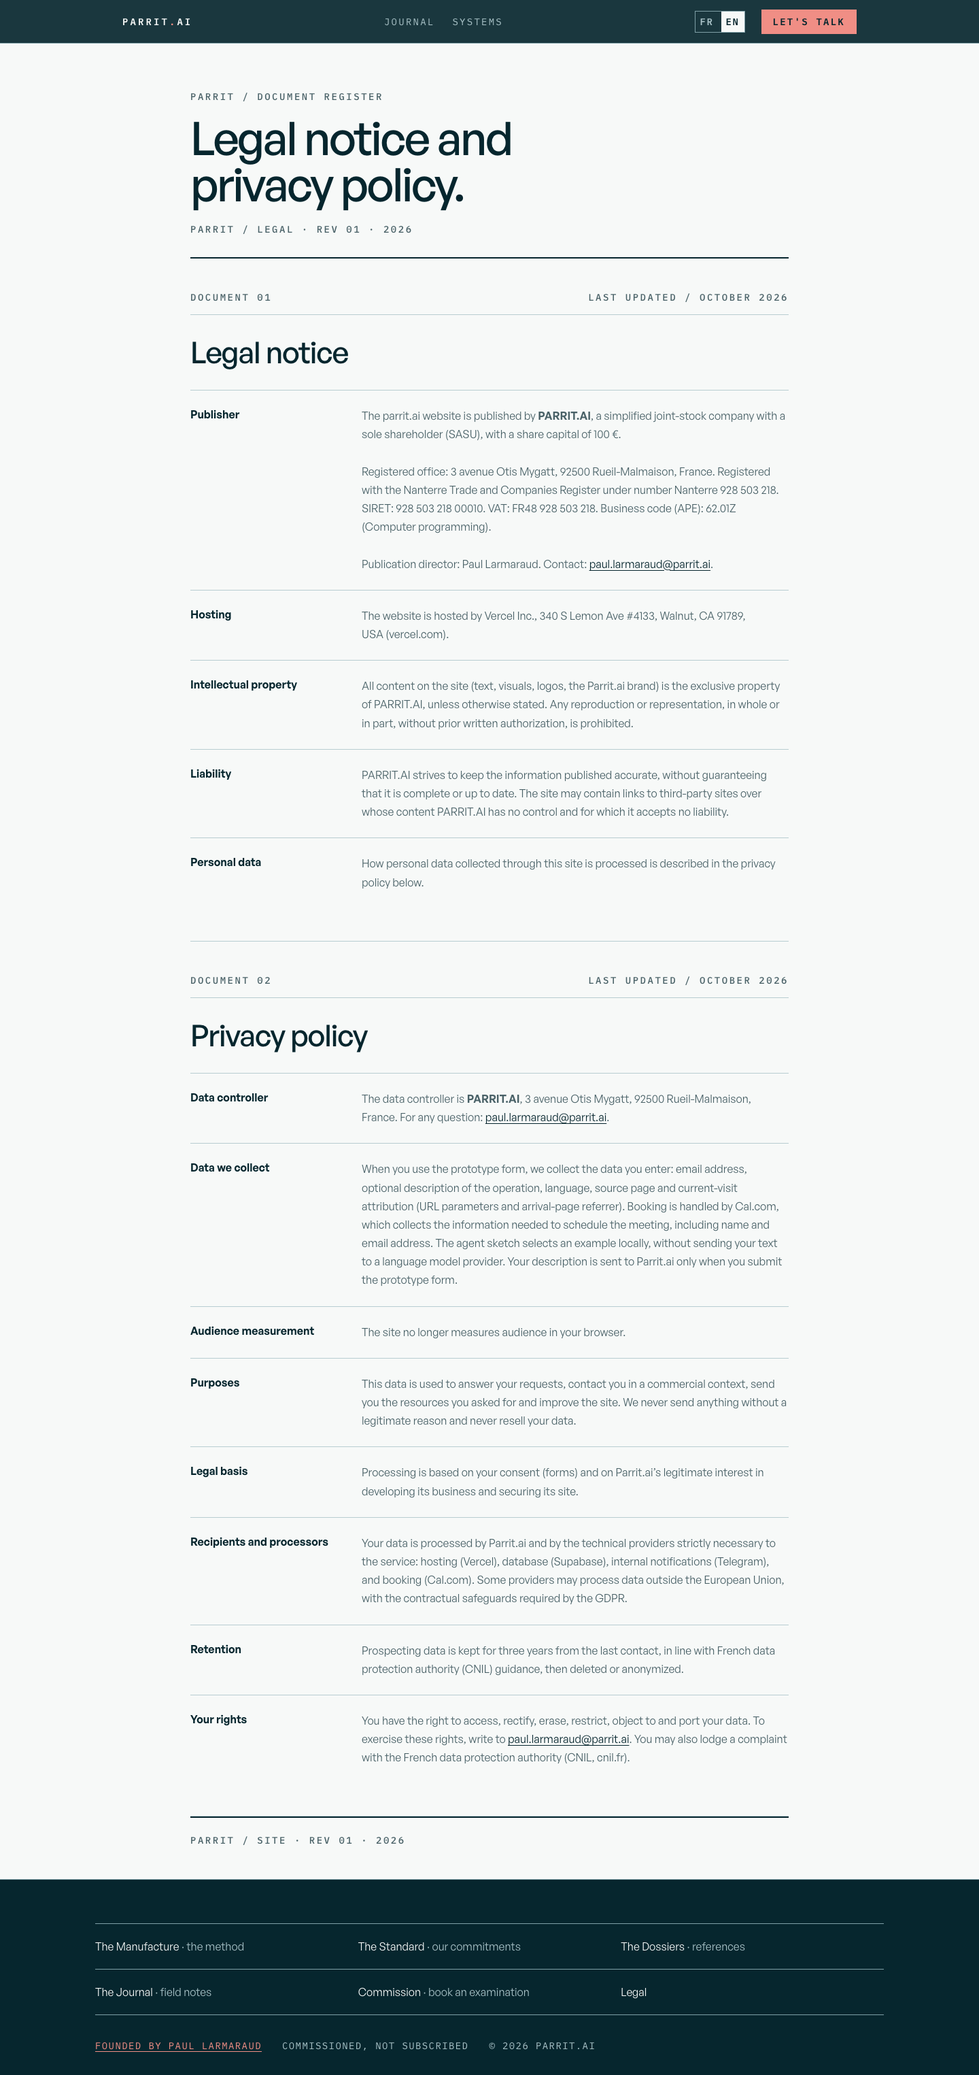
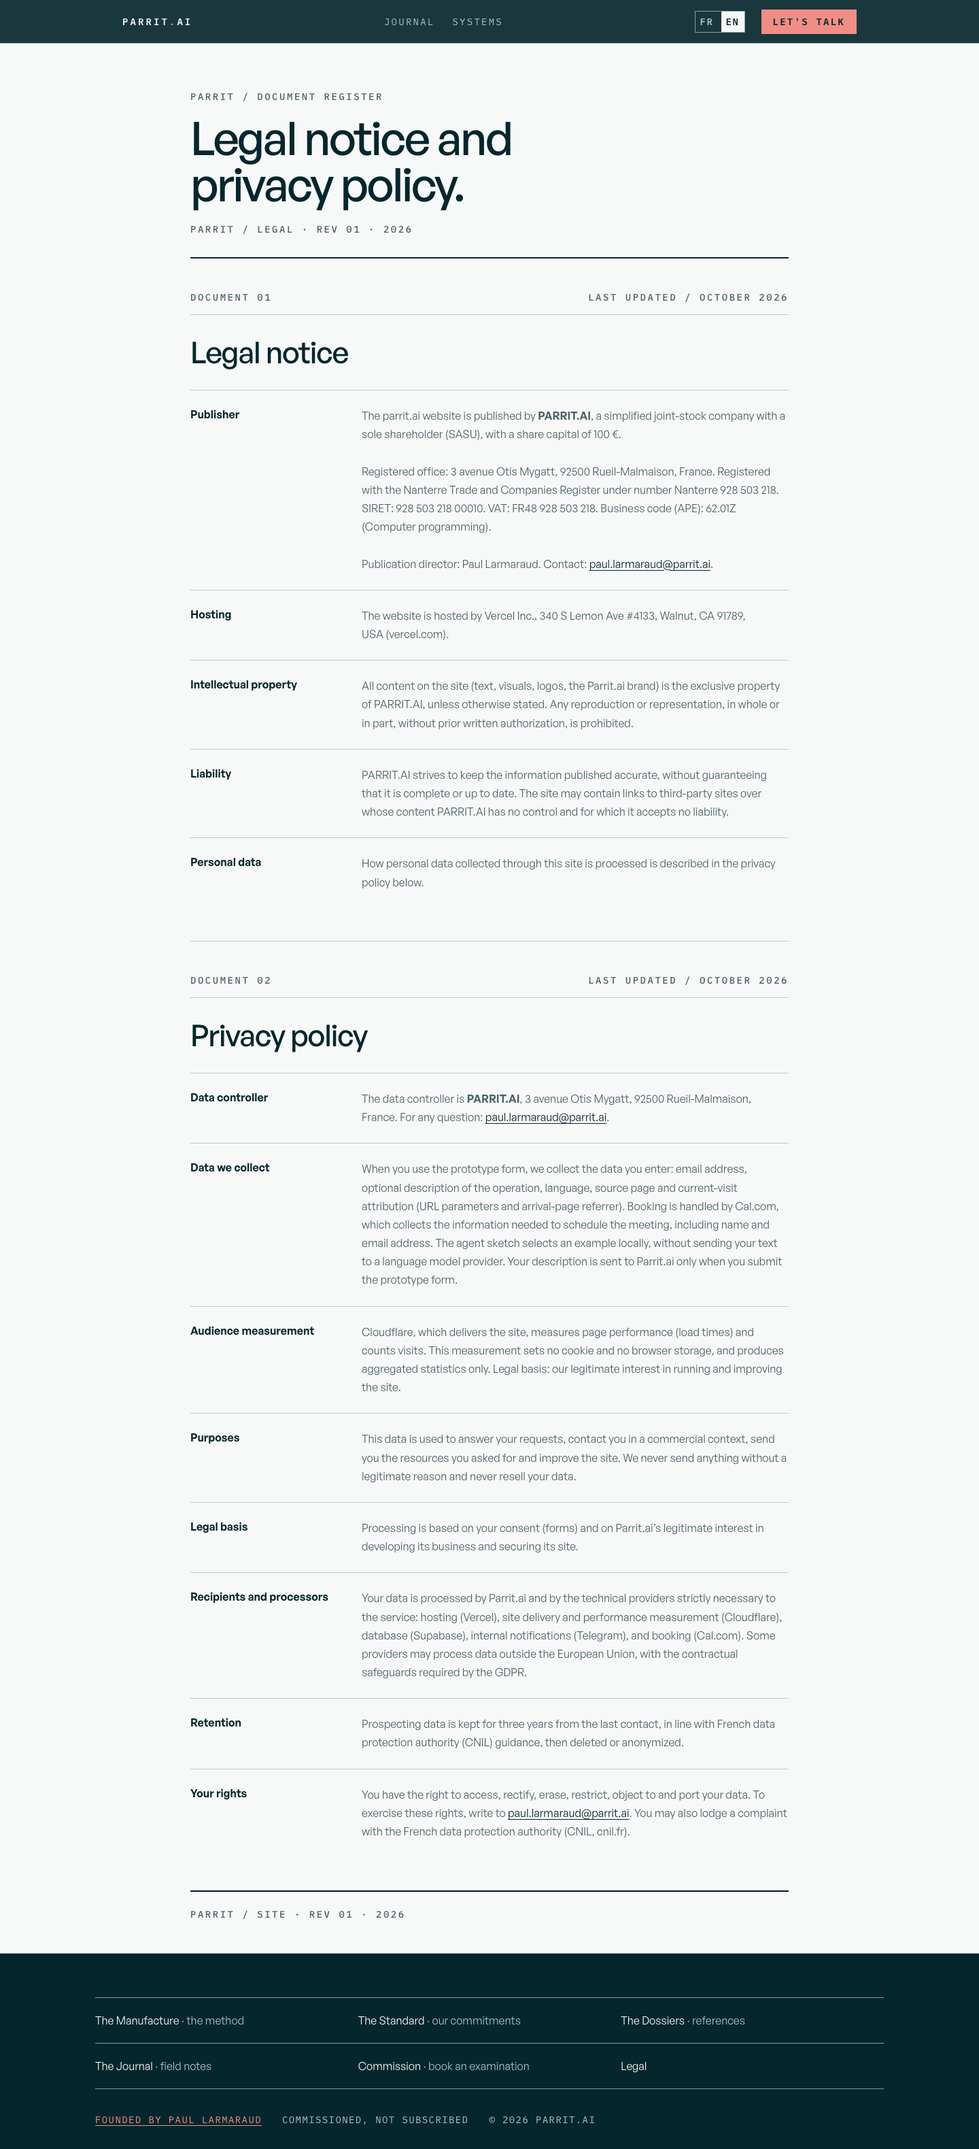
codex: implémente docs/CODEX-SPEC-2026-10-05-parrit-ai-legal-cloudflare-v1.md
Via pont headless codex-handoff.sh. Batterie verte.

diff --git a/src/app/(rev01)/legal/page.tsx b/src/app/(rev01)/legal/page.tsx
@@ -12,12 +12,12 @@ const DICT = {
   en: {
     metaTitle: "Legal notice and privacy policy", metaDescription: "Legal notice and privacy policy for Parrit.ai, including company information, hosting, data processing and GDPR rights.", kicker: "Parrit / Document register", title: "Legal notice and privacy policy.", updated: "Last updated / October 2026", doc1: "Document 01", legalTitle: "Legal notice", doc2: "Document 02", privacyTitle: "Privacy policy",
     legal: [["Publisher", <>The parrit.ai website is published by <strong>{COMPANY.name}</strong>, a simplified joint-stock company with a sole shareholder (SASU), with a share capital of {COMPANY.capital}.<br /><br />Registered office: {COMPANY.office}. Registered with the Nanterre Trade and Companies Register under number {COMPANY.registration}. SIRET: {COMPANY.siret}. VAT: {COMPANY.vat}. Business code (APE): 62.01Z (Computer programming).<br /><br />Publication director: {COMPANY.publicationDirector}. Contact: <a href={`mailto:${COMPANY.email}`}>{COMPANY.email}</a>.</>], ["Hosting", <>The website is hosted by Vercel Inc., 340 S Lemon Ave {"#"}4133, Walnut, CA 91789, USA (vercel.com).</>], ["Intellectual property", <>All content on the site (text, visuals, logos, the Parrit.ai brand) is the exclusive property of {COMPANY.name}, unless otherwise stated. Any reproduction or representation, in whole or in part, without prior written authorization, is prohibited.</>], ["Liability", <>{COMPANY.name} strives to keep the information published accurate, without guaranteeing that it is complete or up to date. The site may contain links to third-party sites over whose content {COMPANY.name} has no control and for which it accepts no liability.</>], ["Personal data", <>How personal data collected through this site is processed is described in the privacy policy below.</>]],
-    privacy: [["Data controller", <>The data controller is <strong>{COMPANY.name}</strong>, {COMPANY.office}. For any question: <a href={`mailto:${COMPANY.email}`}>{COMPANY.email}</a>.</>], ["Data we collect", <>When you use the prototype form, we collect the data you enter: email address, optional description of the operation, language, source page and current-visit attribution (URL parameters and arrival-page referrer). Booking is handled by Cal.com, which collects the information needed to schedule the meeting, including name and email address. The agent sketch selects an example locally, without sending your text to a language model provider. Your description is sent to Parrit.ai only when you submit the prototype form.</>], ["Audience measurement", <>The site no longer measures audience in your browser.</>], ["Purposes", <>This data is used to answer your requests, contact you in a commercial context, send you the resources you asked for and improve the site. We never send anything without a legitimate reason and never resell your data.</>], ["Legal basis", <>Processing is based on your consent (forms) and on Parrit.ai’s legitimate interest in developing its business and securing its site.</>], ["Recipients and processors", <>Your data is processed by Parrit.ai and by the technical providers strictly necessary to the service: hosting (Vercel), database (Supabase), internal notifications (Telegram), and booking (Cal.com). Some providers may process data outside the European Union, with the contractual safeguards required by the GDPR.</>], ["Retention", <>Prospecting data is kept for three years from the last contact, in line with French data protection authority (CNIL) guidance, then deleted or anonymized.</>], ["Your rights", <>You have the right to access, rectify, erase, restrict, object to and port your data. To exercise these rights, write to <a href={`mailto:${COMPANY.email}`}>{COMPANY.email}</a>. You may also lodge a complaint with the French data protection authority (CNIL, cnil.fr).</>]],
+    privacy: [["Data controller", <>The data controller is <strong>{COMPANY.name}</strong>, {COMPANY.office}. For any question: <a href={`mailto:${COMPANY.email}`}>{COMPANY.email}</a>.</>], ["Data we collect", <>When you use the prototype form, we collect the data you enter: email address, optional description of the operation, language, source page and current-visit attribution (URL parameters and arrival-page referrer). Booking is handled by Cal.com, which collects the information needed to schedule the meeting, including name and email address. The agent sketch selects an example locally, without sending your text to a language model provider. Your description is sent to Parrit.ai only when you submit the prototype form.</>], ["Audience measurement", <>Cloudflare, which delivers the site, measures page performance (load times) and counts visits. This measurement sets no cookie and no browser storage, and produces aggregated statistics only. Legal basis: our legitimate interest in running and improving the site.</>], ["Purposes", <>This data is used to answer your requests, contact you in a commercial context, send you the resources you asked for and improve the site. We never send anything without a legitimate reason and never resell your data.</>], ["Legal basis", <>Processing is based on your consent (forms) and on Parrit.ai’s legitimate interest in developing its business and securing its site.</>], ["Recipients and processors", <>Your data is processed by Parrit.ai and by the technical providers strictly necessary to the service: hosting (Vercel), site delivery and performance measurement (Cloudflare), database (Supabase), internal notifications (Telegram), and booking (Cal.com). Some providers may process data outside the European Union, with the contractual safeguards required by the GDPR.</>], ["Retention", <>Prospecting data is kept for three years from the last contact, in line with French data protection authority (CNIL) guidance, then deleted or anonymized.</>], ["Your rights", <>You have the right to access, rectify, erase, restrict, object to and port your data. To exercise these rights, write to <a href={`mailto:${COMPANY.email}`}>{COMPANY.email}</a>. You may also lodge a complaint with the French data protection authority (CNIL, cnil.fr).</>]],
   },
   fr: {
     metaTitle: "Mentions légales et politique de confidentialité", metaDescription: "Mentions légales et politique de confidentialité de Parrit.ai : société, hébergement, traitement des données et droits RGPD.", kicker: "Parrit / Registre documentaire", title: "Mentions légales et politique de confidentialité.", updated: "Dernière mise à jour / Octobre 2026", doc1: "Document 01", legalTitle: "Mentions légales", doc2: "Document 02", privacyTitle: "Politique de confidentialité",
     legal: [["Éditeur", <>Le site parrit.ai est édité par <strong>{COMPANY.name}</strong>, société par actions simplifiée unipersonnelle (SASU), au capital social de {COMPANY.capital}.<br /><br />Siège social : {COMPANY.office}. Immatriculée au Registre du commerce et des sociétés de Nanterre sous le numéro {COMPANY.registration}. SIRET : {COMPANY.siret}. TVA intracommunautaire : {COMPANY.vat}. Code APE : 62.01Z (Programmation informatique).<br /><br />Directeur de la publication : {COMPANY.publicationDirector}. Contact : <a href={`mailto:${COMPANY.email}`}>{COMPANY.email}</a>.</>], ["Hébergement", <>Le site est hébergé par Vercel Inc., 340 S Lemon Ave {"#"}4133, Walnut, CA 91789, États-Unis (vercel.com).</>], ["Propriété intellectuelle", <>L'ensemble des contenus du site (textes, visuels, logos et marque Parrit.ai) est la propriété exclusive de {COMPANY.name}, sauf mention contraire. Toute reproduction ou représentation, totale ou partielle, sans autorisation écrite préalable, est interdite.</>], ["Responsabilité", <>{COMPANY.name} s'efforce d'assurer l'exactitude des informations publiées, sans garantir leur exhaustivité ni leur actualité. Le site peut contenir des liens vers des sites tiers dont {COMPANY.name} ne contrôle pas le contenu et pour lesquels elle décline toute responsabilité.</>], ["Données personnelles", <>Le traitement des données personnelles collectées par l'intermédiaire de ce site est décrit dans la politique de confidentialité ci-dessous.</>]],
-    privacy: [["Responsable du traitement", <>Le responsable du traitement est <strong>{COMPANY.name}</strong>, {COMPANY.office}. Pour toute question : <a href={`mailto:${COMPANY.email}`}>{COMPANY.email}</a>.</>], ["Données collectées", <>Lorsque vous utilisez le formulaire prototype, nous collectons les données que vous saisissez : adresse e-mail, description facultative de l'opération, langue, page d'origine et attribution de la visite en cours (paramètres d'URL et référent de la page d'arrivée). La prise de rendez-vous est gérée par Cal.com, qui collecte les informations nécessaires à la planification du rendez-vous, dont le nom et l'adresse e-mail. L’esquisse d’agent choisit un exemple localement, sans transmettre votre texte à un fournisseur de modèle de langage. Votre description est envoyée à Parrit.ai uniquement lorsque vous soumettez le formulaire prototype.</>], ["Mesure d’audience", <>Le site ne mesure plus l’audience dans votre navigateur.</>], ["Finalités", <>Ces données servent à répondre à vos demandes, à vous contacter dans un contexte commercial, à vous transmettre les ressources demandées et à améliorer le site. Nous n'envoyons rien sans motif légitime et ne revendons jamais vos données.</>], ["Base légale", <>Les traitements reposent sur votre consentement (formulaires) et sur l'intérêt légitime de Parrit.ai à développer son activité et à sécuriser son site.</>], ["Destinataires et sous-traitants", <>Vos données sont traitées par Parrit.ai et par les prestataires techniques strictement nécessaires au service : hébergement (Vercel), base de données (Supabase), notifications internes (Telegram), et prise de rendez-vous (Cal.com). Certains prestataires peuvent traiter des données hors de l'Union européenne, avec les garanties contractuelles exigées par le RGPD.</>], ["Durée de conservation", <>Les données de prospection sont conservées pendant trois ans à compter du dernier contact, conformément aux recommandations de la CNIL, puis supprimées ou anonymisées.</>], ["Vos droits", <>Vous disposez des droits d'accès, de rectification, d'effacement, de limitation, d'opposition et de portabilité de vos données. Pour exercer ces droits, écrivez à <a href={`mailto:${COMPANY.email}`}>{COMPANY.email}</a>. Vous pouvez également adresser une réclamation à la Commission nationale de l'informatique et des libertés (CNIL, cnil.fr).</>]],
+    privacy: [["Responsable du traitement", <>Le responsable du traitement est <strong>{COMPANY.name}</strong>, {COMPANY.office}. Pour toute question : <a href={`mailto:${COMPANY.email}`}>{COMPANY.email}</a>.</>], ["Données collectées", <>Lorsque vous utilisez le formulaire prototype, nous collectons les données que vous saisissez : adresse e-mail, description facultative de l'opération, langue, page d'origine et attribution de la visite en cours (paramètres d'URL et référent de la page d'arrivée). La prise de rendez-vous est gérée par Cal.com, qui collecte les informations nécessaires à la planification du rendez-vous, dont le nom et l'adresse e-mail. L’esquisse d’agent choisit un exemple localement, sans transmettre votre texte à un fournisseur de modèle de langage. Votre description est envoyée à Parrit.ai uniquement lorsque vous soumettez le formulaire prototype.</>], ["Mesure d’audience", <>Cloudflare, qui achemine le site, mesure les performances des pages (temps de chargement) et compte les visites. Cette mesure ne dépose ni cookie ni stockage dans votre navigateur et ne produit que des statistiques agrégées. Base légale : notre intérêt légitime à faire fonctionner et à améliorer le site.</>], ["Finalités", <>Ces données servent à répondre à vos demandes, à vous contacter dans un contexte commercial, à vous transmettre les ressources demandées et à améliorer le site. Nous n'envoyons rien sans motif légitime et ne revendons jamais vos données.</>], ["Base légale", <>Les traitements reposent sur votre consentement (formulaires) et sur l'intérêt légitime de Parrit.ai à développer son activité et à sécuriser son site.</>], ["Destinataires et sous-traitants", <>Vos données sont traitées par Parrit.ai et par les prestataires techniques strictement nécessaires au service : hébergement (Vercel), acheminement du site et mesure des performances (Cloudflare), base de données (Supabase), notifications internes (Telegram), et prise de rendez-vous (Cal.com). Certains prestataires peuvent traiter des données hors de l'Union européenne, avec les garanties contractuelles exigées par le RGPD.</>], ["Durée de conservation", <>Les données de prospection sont conservées pendant trois ans à compter du dernier contact, conformément aux recommandations de la CNIL, puis supprimées ou anonymisées.</>], ["Vos droits", <>Vous disposez des droits d'accès, de rectification, d'effacement, de limitation, d'opposition et de portabilité de vos données. Pour exercer ces droits, écrivez à <a href={`mailto:${COMPANY.email}`}>{COMPANY.email}</a>. Vous pouvez également adresser une réclamation à la Commission nationale de l'informatique et des libertés (CNIL, cnil.fr).</>]],
   },
 } as const;
 

diff --git a/docs/REPORT-2026-10-05-legal-cloudflare.md b/docs/REPORT-2026-10-05-legal-cloudflare.md
@@ -1,0 +1,69 @@
+# Rapport — page légale Cloudflare
+
+Spec : `docs/CODEX-SPEC-2026-10-05-parrit-ai-legal-cloudflare-v1.md`.
+
+## Périmètre
+
+Modification locale et réversible de la page légale FR/EN, ajout de deux tests dans `tests/privacy-corrections.test.mjs` et du présent rapport. Aucune modification du runtime, des scripts analytics, des styles ou des dépendances déclarées. Aucun commit, push ni déploiement. La spec non suivie préexistante est conservée. Aucun système distant ni donnée métier modifié.
+
+Les constats Cloudflare proviennent de la spec datée du 05/10/2026 ; ils ne constituent pas une nouvelle observation de production par cette session (horloge locale : 04/10/2026).
+
+## Texte avant/après
+
+### FR
+
+**Mesure d’audience — avant**
+
+Le site ne mesure plus l’audience dans votre navigateur.
+
+**Après**
+
+Cloudflare, qui achemine le site, mesure les performances des pages (temps de chargement) et compte les visites. Cette mesure ne dépose ni cookie ni stockage dans votre navigateur et ne produit que des statistiques agrégées. Base légale : notre intérêt légitime à faire fonctionner et à améliorer le site.
+
+**Destinataires et sous-traitants — avant**
+
+Vos données sont traitées par Parrit.ai et par les prestataires techniques strictement nécessaires au service : hébergement (Vercel), base de données (Supabase), notifications internes (Telegram), et prise de rendez-vous (Cal.com). Certains prestataires peuvent traiter des données hors de l'Union européenne, avec les garanties contractuelles exigées par le RGPD.
+
+**Après**
+
+Vos données sont traitées par Parrit.ai et par les prestataires techniques strictement nécessaires au service : hébergement (Vercel), acheminement du site et mesure des performances (Cloudflare), base de données (Supabase), notifications internes (Telegram), et prise de rendez-vous (Cal.com). Certains prestataires peuvent traiter des données hors de l'Union européenne, avec les garanties contractuelles exigées par le RGPD.
+
+### EN
+
+**Audience measurement — avant**
+
+The site no longer measures audience in your browser.
+
+**Après**
+
+Cloudflare, which delivers the site, measures page performance (load times) and counts visits. This measurement sets no cookie and no browser storage, and produces aggregated statistics only. Legal basis: our legitimate interest in running and improving the site.
+
+**Recipients and processors — avant**
+
+Your data is processed by Parrit.ai and by the technical providers strictly necessary to the service: hosting (Vercel), database (Supabase), internal notifications (Telegram), and booking (Cal.com). Some providers may process data outside the European Union, with the contractual safeguards required by the GDPR.
+
+**Après**
+
+Your data is processed by Parrit.ai and by the technical providers strictly necessary to the service: hosting (Vercel), site delivery and performance measurement (Cloudflare), database (Supabase), internal notifications (Telegram), and booking (Cal.com). Some providers may process data outside the European Union, with the contractual safeguards required by the GDPR.
+
+## Tests et exécution
+
+Les deux nouveaux tests rendent le composant légal réel avec React, une locale simulée et les composants de chrome neutralisés. Ils exigent le paragraphe exact dans sa rubrique FR/EN, Cloudflare immédiatement après Vercel dans la liste des prestataires, et refusent les anciennes formulations (apostrophe droite, typographique ou encodée). Aucun appel réseau n'est nécessaire ; le chargeur existant interdit `fetch`.
+
+| Contrôle | Avant | Après |
+|---|---|---|
+| `npm run test:privacy` | Bloqué : `react-dom` absent | Même blocage, aucune assertion exécutée |
+| `npm run qa:claims:rev01` | Réussi | Réussi |
+| `npm run qa:brand:rev01` | Bloqué : `color-name` absent | Même blocage |
+| `npm run lint` | Non exécuté | Bloqué : `eslint` absent |
+| `node --check tests/privacy-corrections.test.mjs` | Non exécuté | Réussi |
+| `git diff --check` | Non exécuté | Réussi |
+| Comparaison statique des paragraphes FR/EN avec la spec | Non exécuté | Réussie, anciennes formulations absentes |
+
+L'installation `npm ci --offline --ignore-scripts --cache /tmp/parrit-legal-npm-cache` échoue avec `ENOTCACHED` (zwitch). Les guides Next locaux sont également absents ; aucune API Next n'a été modifiée, seuls les textes du dictionnaire le sont.
+
+## Vérifications restantes hors sandbox
+
+Conformément à la spec, aucun build ni serveur lancé dans le sandbox. Après installation des dépendances sur l'hôte : `npm run test:privacy`, `npm run lint`, `npm run qa:claims:rev01`, `npm run build`, `npm run qa:brand:rev01`, `npm run test:brand-os`, puis `npm run qa:network:rev01` avec le serveur local sur 3210. Les deux dernières suites ne sont pas exécutées ici, car elles nécessitent notamment le build. Les blocages d'environnement ne sont pas des validations fonctionnelles.
+
+Preuve de production attendue après publication par le processus externe : vérifier les rubriques FR/EN de `/fr/legal` et `/legal`, et leur cohérence avec la mesure Cloudflare réellement injectée. Aucune preuve de publication n'est revendiquée ici.

diff --git a/docs/CODEX-SPEC-2026-10-05-parrit-ai-legal-cloudflare-v1.md b/docs/CODEX-SPEC-2026-10-05-parrit-ai-legal-cloudflare-v1.md
@@ -1,0 +1,28 @@
+# CODEX SPEC — parrit.ai : la page légale décrit la mesure Cloudflare réellement active
+
+Date : 05/10/2026 · Auteur : Claude (relecture et merge, §25) · Base : `origin/main` (ebd3ae1 = production, PR #297).
+**Ce lot sera fusionné et publié.** Il corrige une phrase devenue fausse après #297.
+
+## Constat (mesuré en production le 05/10, navigateur Chromium sans drapeau d'automatisation)
+- parrit.ai passe par Cloudflare (serveurs de noms `*.ns.cloudflare.com`, en-tête `server: cloudflare`, `cf-ray`).
+- Cloudflare injecte de lui-même, au niveau du domaine, le script `https://static.cloudflareinsights.com/beacon.min.js`
+  (Cloudflare Web Analytics) ; la page envoie ensuite 3 requêtes `POST /cdn-cgi/rum`. Ce script n'est PAS dans le dépôt.
+- Aucun cookie, aucune clé `localStorage` ni `sessionStorage` après chargement et défilement.
+- La page légale publiée dit « Le site ne mesure plus l'audience dans votre navigateur. » : c'est faux, et Cloudflare
+  n'apparaît pas dans la liste des prestataires.
+
+## Modification (`src/app/(rev01)/legal/page.tsx`, FR et EN, rien d'autre)
+1. Rubrique « Mesure d'audience » (FR) : « Cloudflare, qui achemine le site, mesure les performances des pages (temps de
+   chargement) et compte les visites. Cette mesure ne dépose ni cookie ni stockage dans votre navigateur et ne produit que
+   des statistiques agrégées. Base légale : notre intérêt légitime à faire fonctionner et à améliorer le site. »
+   EN : « Cloudflare, which delivers the site, measures page performance (load times) and counts visits. This measurement
+   sets no cookie and no browser storage, and produces aggregated statistics only. Legal basis: our legitimate interest in
+   running and improving the site. »
+2. Rubrique « Destinataires et sous-traitants » : ajouter « acheminement du site et mesure des performances (Cloudflare) »
+   (EN : « site delivery and performance measurement (Cloudflare) ») après l'hébergement (Vercel).
+3. Mettre à jour le test qui vérifie le texte de la page légale (`tests/privacy-corrections.test.mjs`) : il exige la mention
+   de Cloudflare et refuse la phrase « ne mesure plus l'audience » / « no longer measures ».
+
+## Preuves attendues
+Batterie hors sandbox (lint, claims, build, brand, `test:brand-os`, `qa:network:rev01`) ; pas de build dans le sandbox.
+`docs/REPORT-2026-10-05-legal-cloudflare.md` : texte avant/après FR et EN.
